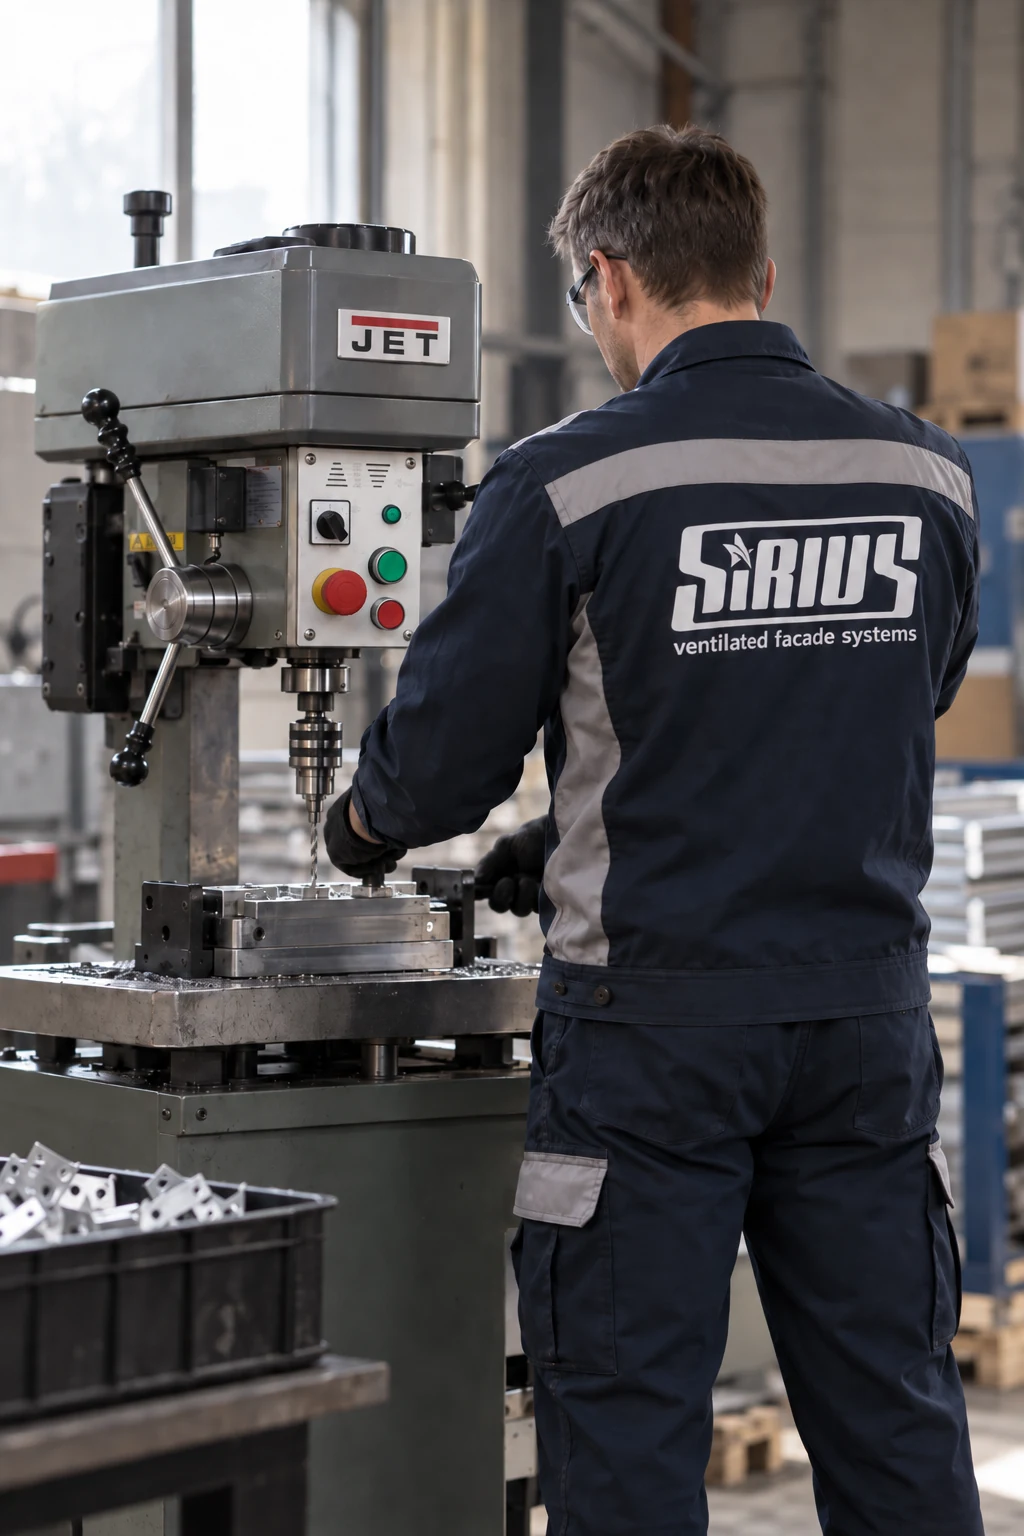
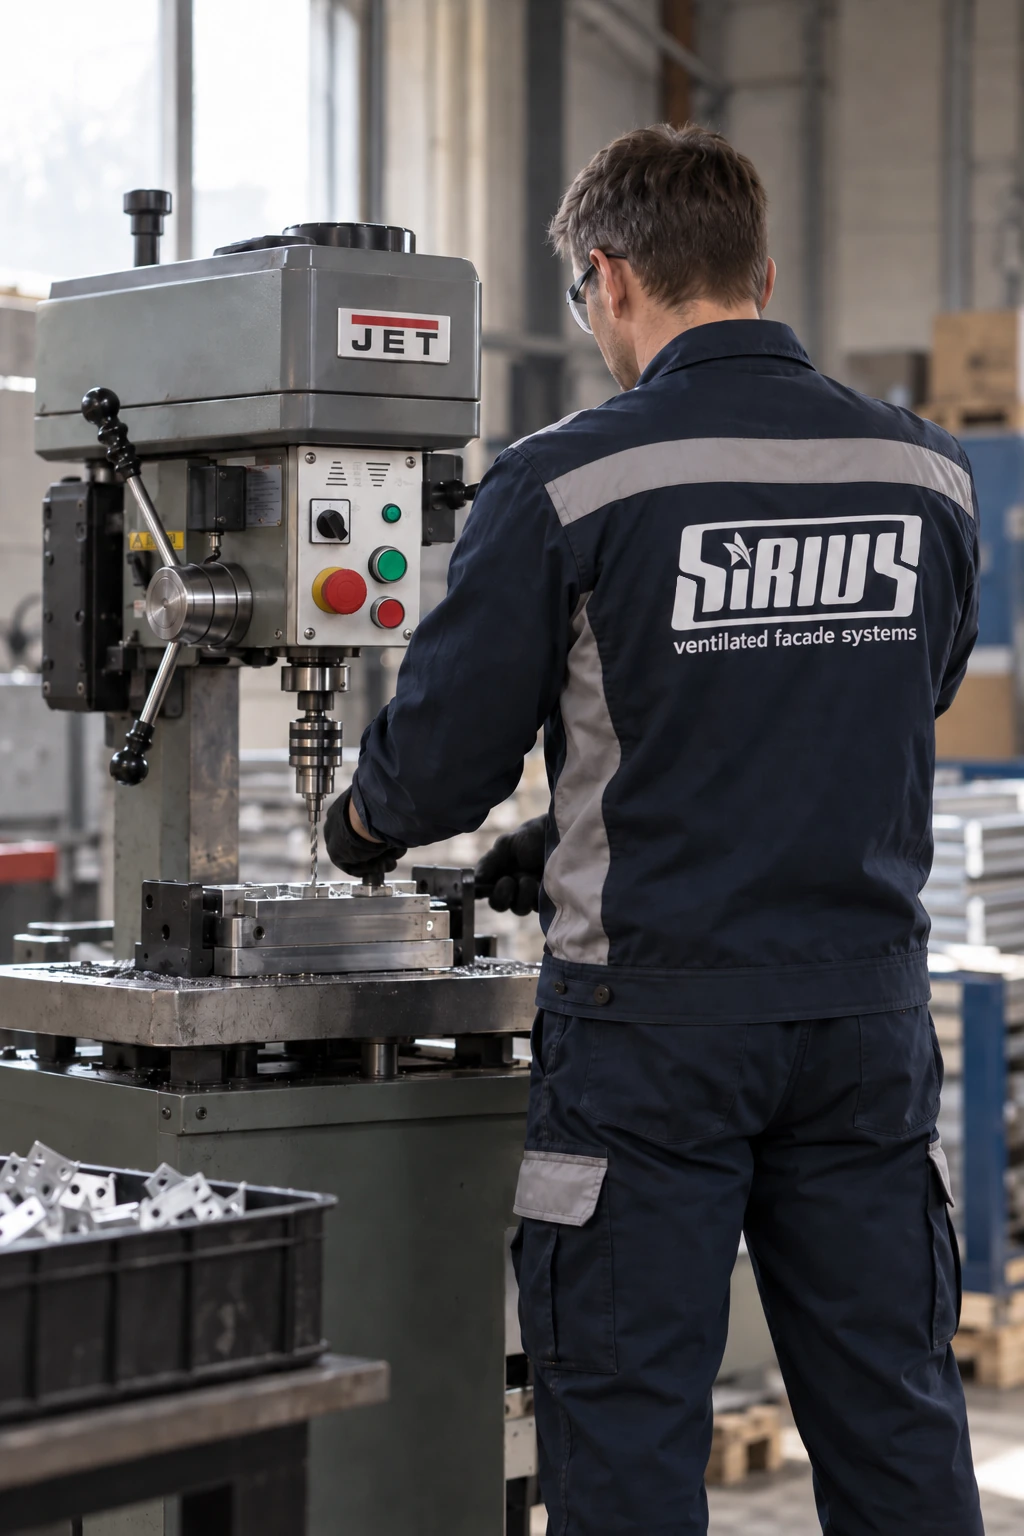
Refresh mobile hero image

diff --git a/index.html b/index.html
@@ -21,7 +21,7 @@
   <main>
     <section class="hero" id="info" data-section>
       <img class="hero-image hero-image-desktop" src="assets/hero-desktop.webp?v=1" alt="Сотрудник на производстве Sirius">
-      <img class="hero-image hero-image-mobile" src="assets/hero-mobile.webp?v=2" alt="" aria-hidden="true">
+      <img class="hero-image hero-image-mobile" src="assets/hero-mobile.webp?v=3" alt="" aria-hidden="true">
       <div class="hero-shade"></div>
       <div class="hero-content container reveal">
         <h1>Завод фасадных<br>систем <span>Sirius</span></h1>
